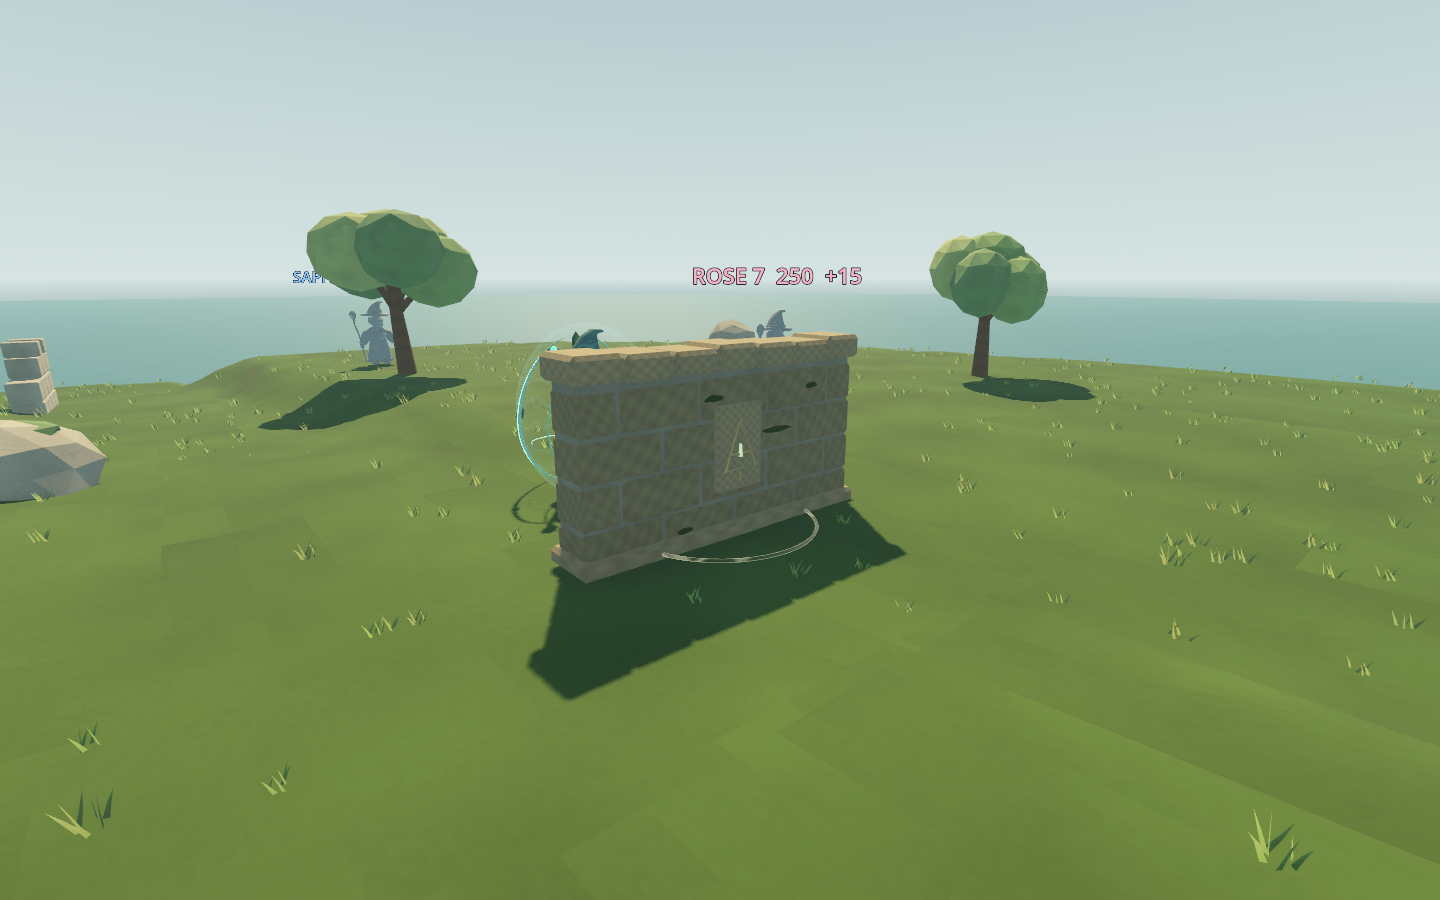
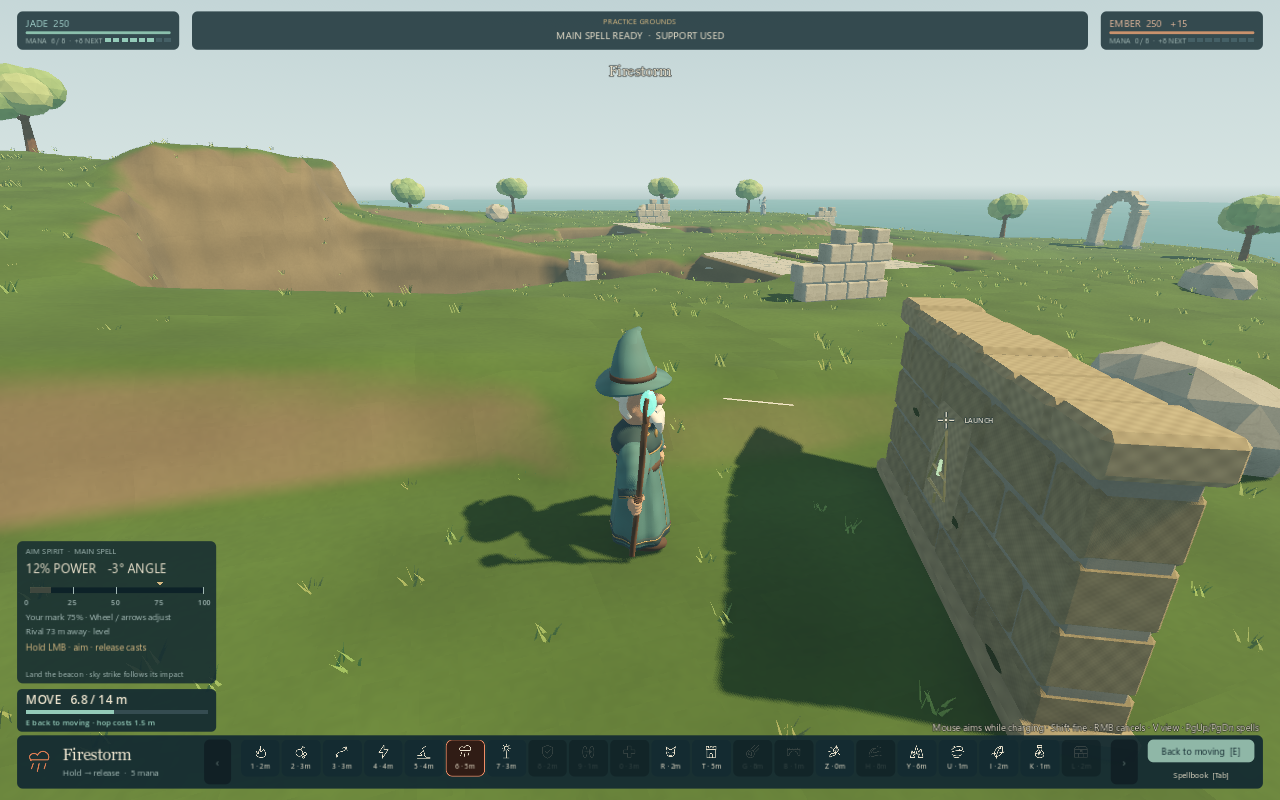
Publish ARCFALL 1.8 player guide and gameplay screenshots

diff --git a/CHANGELOG.md b/CHANGELOG.md
@@ -1,44 +1,36 @@
-# ARCFALL 1.7 — A battle of spellbooks
+# ARCFALL 1.8
 
-**Twenty-one spells and eight spellbook presets.** Venom Orb adds delayed damage
-that Ward blocks and Mend cleanses. Stone Wall creates destructible cover with
-open flanks and open sky. Both have original Blender models and textures in the
-existing art style. The wizard's hat now sits slightly lower against the head.
+**Prepare, reposition, counterattack.** One optional support can precede your
+main spell. Blink, Ward, Mend, Bridge and Stone Wall share the support action and
+the same banked mana. Income scales from 1 to 4 per owner turn, with an 8-mana cap.
 
-Fire Ball is optional. Alchemist, Warden and Stormcaller join the original five
-presets with their own tools; everyone retains Blink and free Staff Spark. An
-eight-player preset battle gives each opponent a different book. Fire Ball makes
-a smaller crater, while Ward, Imp, Briar and Gale are cheaper to cast.
+Meteor and Firestorm start with charged physical beacons. Land the shot to call
+the descending attack; cover can intercept it and a sea miss spends the cast.
+Sky Ray keeps precise Ward removal with 22 base damage and two recovery turns.
+Homing Seeker retains its natural weakness against intervening objects.
 
-The AI evaluates threats, firing lanes, book strengths, terrain support, incoming
-knockback and spells it can afford over the next two turns. It can bank mana,
-counter infection, protect itself, use summons and seek a safe firing position
-when trapped. It uses the same spell costs, unlocks and placement rules as players.
+Tidal Reckoning now brings a storm across the surrounding sea, with many
+irregular waves and 128 water projectiles from scattered offshore positions.
+Most impacts progressively erode the coast. Every surviving rival gets a
+response turn before the barrage. Worldsplitter is an immediate 36 m × 6 m rupture
+for 80 grounded damage, including crater floors and positions under roofs.
 
-**Learn to cast** teaches movement, angle and power through actual actions.
-F2 hides or replays the optional guide. Holding and releasing the mouse still
-requires judging the shot; no predicted landing point is shown. The movement
-bar reports the remaining distance in metres.
+Fire Ball makes shallow craters and needs a recovery turn. Ward expires on your
+next turn and cannot be spammed continuously. Mend has two uses per battle, restoring 40 and cleansing
+poison/roots. Briar fully binds the next movement turn, followed by a full
+unbound turn; Blink and Mend provide answers.
 
-Eliminated players can watch, start another battle or return to shore immediately.
-A wizard dying during its own movement now correctly finishes that seat's turn.
-**O** doubles AI observation speed while preserving the simulation step; human
-movement and casting stay at normal speed. **Continue battle** restores the
-current match after returning to the menu, during the same application session.
+AI considers enclosing craters, escape routes, safe hops and support/main
+combinations. Bridge preview and casting share reliable grounded placement.
+Camera handoffs avoid travelling through the island.
 
-Settings separate Controls, Audio and Display, with alternate two-click casting,
-interface scale, lower effects, reduced motion, frame caps and fullscreen (F11).
-Windows includes **Play-DirectX12.cmd** as an alternative to the default Vulkan
-renderer. Menus support keyboard focus and small-window scrolling.
+**J leaves towers from movement or aim**, fixing the tutorial trap. Tab offers
+a visible **Leave tower** button. Leaving keeps your spell action, and walking
+afterward advances the guide. The HUD shows support availability and next-turn
+mana income.
 
-The final four eight-player AI matches completed with 436 accepted casts across
-16 spell types, no rejected AI casts and no deaths during a wizard's own movement.
-Fire Ball was 35% of primary casts, down from 63% in the first development cohort.
-These are observations from a small sample, not a competitive book ranking.
-Focused regression checks cover AI tactics, real spell effects, input, turn flow,
-onboarding and playback. Native Windows play and Vulkan/DirectX 12 rendering
-were reviewed on an RTX 3060 Ti.
+Windows x64: AI duels, four/eight-player free-for-all against AI, two-player
+hotseat and practice. No online matchmaking or battle saves to disk. The ZIP
+includes a DirectX 12 launcher alongside the default Vulkan executable.
 
-Available modes are AI duels, four/eight-player free-for-all against AI,
-two-player local hotseat and practice. This release has no online matchmaking
-or disk saves for battles. [Download and controls](README.md).
+[Download and controls](README.md).

diff --git a/README.md b/README.md
@@ -6,7 +6,7 @@ A first-person, turn-based wizard artillery game. Prepare eight spells under a
 20-point budget, bank mana for a devastating ritual, and turn your opponent's
 cover into a crater. Water is deadly. Position matters as much as damage.
 
-![Eight-player battle on Grand Reach after the first round](images/battle.png)
+![Stormcaller opens an eight-player battle on Grand Reach](images/battle.png)
 
 ## Download and play
 
@@ -27,14 +27,14 @@ hardware specification.
 - AI duels and four/eight-player free-for-all against AI.
 - Two-player hotseat on one computer.
 - Guided practice and a sandbox with all twenty-one spells.
-- Three destructible arenas, original 3D artwork, towers, imps and late-game
-  rituals with time for opponents to respond.
+- Three destructible arenas, original 3D artwork, towers, imps and a storm-sea
+  finale with time for opponents to respond.
 
 This is a **local game**. There is no online matchmaking. Returning to the menu
 keeps your current battle available until you begin another or close the game;
 battles are not saved to disk.
 
-![Tidal Reckoning crossing the island](images/tide.png)
+![Tidal Reckoning turns the surrounding sea into a storm](images/tide.png)
 
 ## Your first spell
 
@@ -44,7 +44,7 @@ cancels. Power controls travel, not damage. **E** switches between moving and
 aiming; **V** switches the aiming camera. The game shows the real flight after
 release, so use the result to judge your next shot.
 
-**Tab** opens spellbooks. **F2** shows/hides the guide. **Esc** opens settings,
+**J** leaves your tower, even while aiming; **Tab** opens spellbooks and also offers **Leave tower**. **F2** shows/hides the guide. **Esc** opens settings,
 **F11** switches fullscreen, and **O** changes the speed of watching AI turns.
 Settings includes optional two-click casting, lower effects and interface scale.
 
@@ -57,11 +57,32 @@ tools. Every book retains Blink and the free Staff Spark.
 
 ![Stone Wall creates a new defensive position](images/wall.png)
 
-![Alchemist's first Staff Spark: follow the real projectile and learn from its flight](images/learn.png)
+![A charged sky beacon: land the shot to call the descending attack](images/learn.png)
 
-*The first-cast and eight-player screenshots were captured from the standalone
-1.7 Windows game using keyboard and mouse. The Tidal Reckoning image shows the
-same ritual from its original 1.4 release.*
+*Current 1.8 Windows gameplay: standalone beacon, wall and storm captures, plus the native eight-player opening.*
+
+## Prepare, reposition, counterattack
+
+Each turn allows **one optional support, then one main spell**. Blink, Ward,
+Mend, Bridge and Stone Wall share that support action and your mana bank.
+Blink out of a crater and attack, or cleanse and counterattack. Main spells end
+the turn. Income rises from 1 on your first two turns, to 2 from turn 3, 3 from
+turn 5, and 4 from turn 8. Bank up to 8; the HUD shows next-turn income.
+
+Ward lasts until your next turn and has two recovery turns. Mend has two uses
+per battle, restoring 40 health and clearing poison/roots. Briar binds the next movement turn, with a full
+unbound turn afterward; Ward/towers intercept it and Blink/Mend can answer.
+
+**Meteor and Firestorm require a charged beacon to land.** Cover can catch it
+early and a sea miss spends the shot. Roofs intercept the descending attack.
+Sky Ray keeps precise Ward removal with low damage and recovery. Seeker homes
+into intervening obstacles that a carefully arced shot could clear.
+
+**Worldsplitter** is an immediate 36 m ground rupture. **Tidal Reckoning** changes
+the surrounding sea into a storm and launches 128 physical water projectiles
+from scattered locations over ten seconds, mostly eroding the coast. Every
+surviving rival gets a response turn; cover and friendly fire matter.
+
 
 ## Feedback
 
